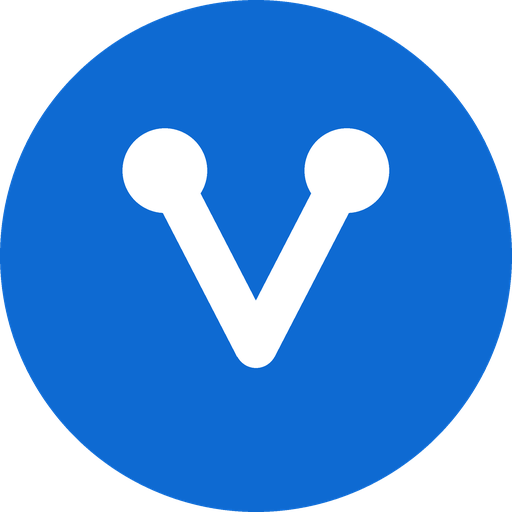
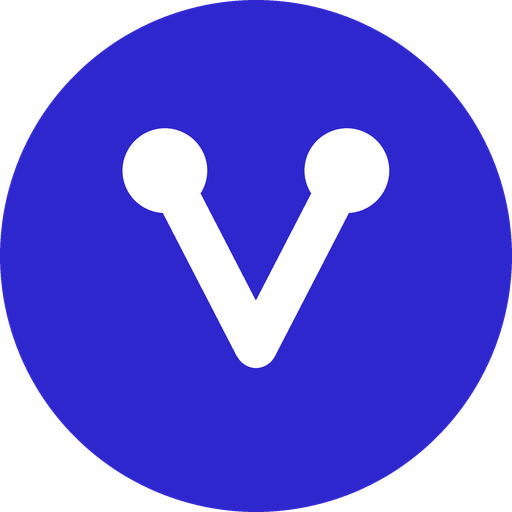
scripts: regenerate brand assets with indigo accent

diff --git a/scripts/check_brand_assets.py b/scripts/check_brand_assets.py
@@ -23,7 +23,7 @@ def check(name, fn):
         print(f"FAIL {name}: {e}")
 
 
-BLUE = (14, 106, 210)
+VIOLET = (47, 39, 206)
 WHITE = (255, 255, 255)
 BG = (249, 250, 251)
 
@@ -32,20 +32,20 @@ def check_icon():
     for size in (192, 512):
         img = Image.open(PUBLIC / f"icon-{size}.png").convert("RGB")
         assert img.size == (size, size), img.size
-        # plate is brand blue at centre-left and centre-right edges
-        assert near(sample(img, 0.05, 0.5), BLUE), sample(img, 0.05, 0.5)
-        assert near(sample(img, 0.95, 0.5), BLUE), sample(img, 0.95, 0.5)
+        # plate is brand violet at centre-left and centre-right edges
+        assert near(sample(img, 0.05, 0.5), VIOLET), sample(img, 0.05, 0.5)
+        assert near(sample(img, 0.95, 0.5), VIOLET), sample(img, 0.95, 0.5)
         # a white-ish node sits up-and-left inside the mark
         px = sample(img, 0.42, 0.42)
         assert max(px) > 150, px
-    # maskable: art confined to inner zone -> corners are blue plate
+    # maskable: art confined to inner zone -> corners are violet plate
     img = Image.open(PUBLIC / "icon-maskable-512.png").convert("RGB")
-    assert near(sample(img, 0.5, 0.03), BLUE), sample(img, 0.5, 0.03)
+    assert near(sample(img, 0.5, 0.03), VIOLET), sample(img, 0.5, 0.03)
 
 
 def check_apple():
     img = Image.open(PUBLIC / "apple-touch-icon.png").convert("RGB")
-    assert near(sample(img, 0.5, 0.12), BLUE, tol=35), sample(img, 0.5, 0.12)
+    assert near(sample(img, 0.5, 0.12), VIOLET, tol=35), sample(img, 0.5, 0.12)
     px = sample(img, 0.42, 0.42)
     assert max(px) > 150, px
 
@@ -53,7 +53,7 @@ def check_apple():
 def check_og():
     img = Image.open(PUBLIC / "og-image.png").convert("RGB")
     assert img.size == (1200, 630), img.size
-    assert near(sample(img, 0.5, 0.003), BLUE), sample(img, 0.5, 0.003)  # top bar
+    assert near(sample(img, 0.5, 0.003), VIOLET), sample(img, 0.5, 0.003)  # top bar
     assert near(sample(img, 0.5, 0.5), BG, tol=12), sample(img, 0.5, 0.5)  # light card
     # wordmark "Vorza" ink sits at roughly (214,156)-(520,245); sample inside a glyph
     px = sample(img, 0.19, 0.3)

diff --git a/scripts/make_brand_assets.py b/scripts/make_brand_assets.py
@@ -2,7 +2,7 @@
 
 Why this exists
 ---------------
-The product is light-only with a single enterprise-blue accent, and every
+The product ships one violet accent across both themes, and every
 raster asset has to agree with the running app down to the hex: a favicon
 advertising one brand while the page renders another is exactly the drift this
 file was written to prevent. Hardcoding colours in three places is what caused
@@ -42,7 +42,7 @@ RAISED = (243, 244, 246)  # --raised      220 16% 96%
 LINE = (223, 225, 231)  # --line        220 13% 89%
 INK = (26, 29, 36)  # --ink         222 18% 15%
 INK_DIM = (87, 100, 107)  # --ink-dim     220 10% 38%
-PRIMARY = (14, 106, 210)  # --primary     212 87% 44%
+PRIMARY = (47, 39, 206)  # --primary     243 68% 48%
 SIGNAL_GOOD = (21, 127, 61)  # --signal-good 143 72% 29%
 SIGNAL_WARN = (153, 102, 0)  # --signal-warn 40 100% 30%
 SIGNAL_BAD = (206, 34, 45)  # --signal-bad  356 72% 47%
@@ -308,7 +308,7 @@ def build_og_image() -> Path:
 
 
 def build_icon(size: int, *, maskable: bool = False) -> Path:
-    """The mark: a white Vorza V on a rounded brand-blue plate.
+    """The mark: a white Vorza V on a rounded brand-violet plate.
 
     Maskable icons get their art scaled into the inner 80% safe zone, because
     Android will crop a full-bleed square to whatever shape the launcher uses
